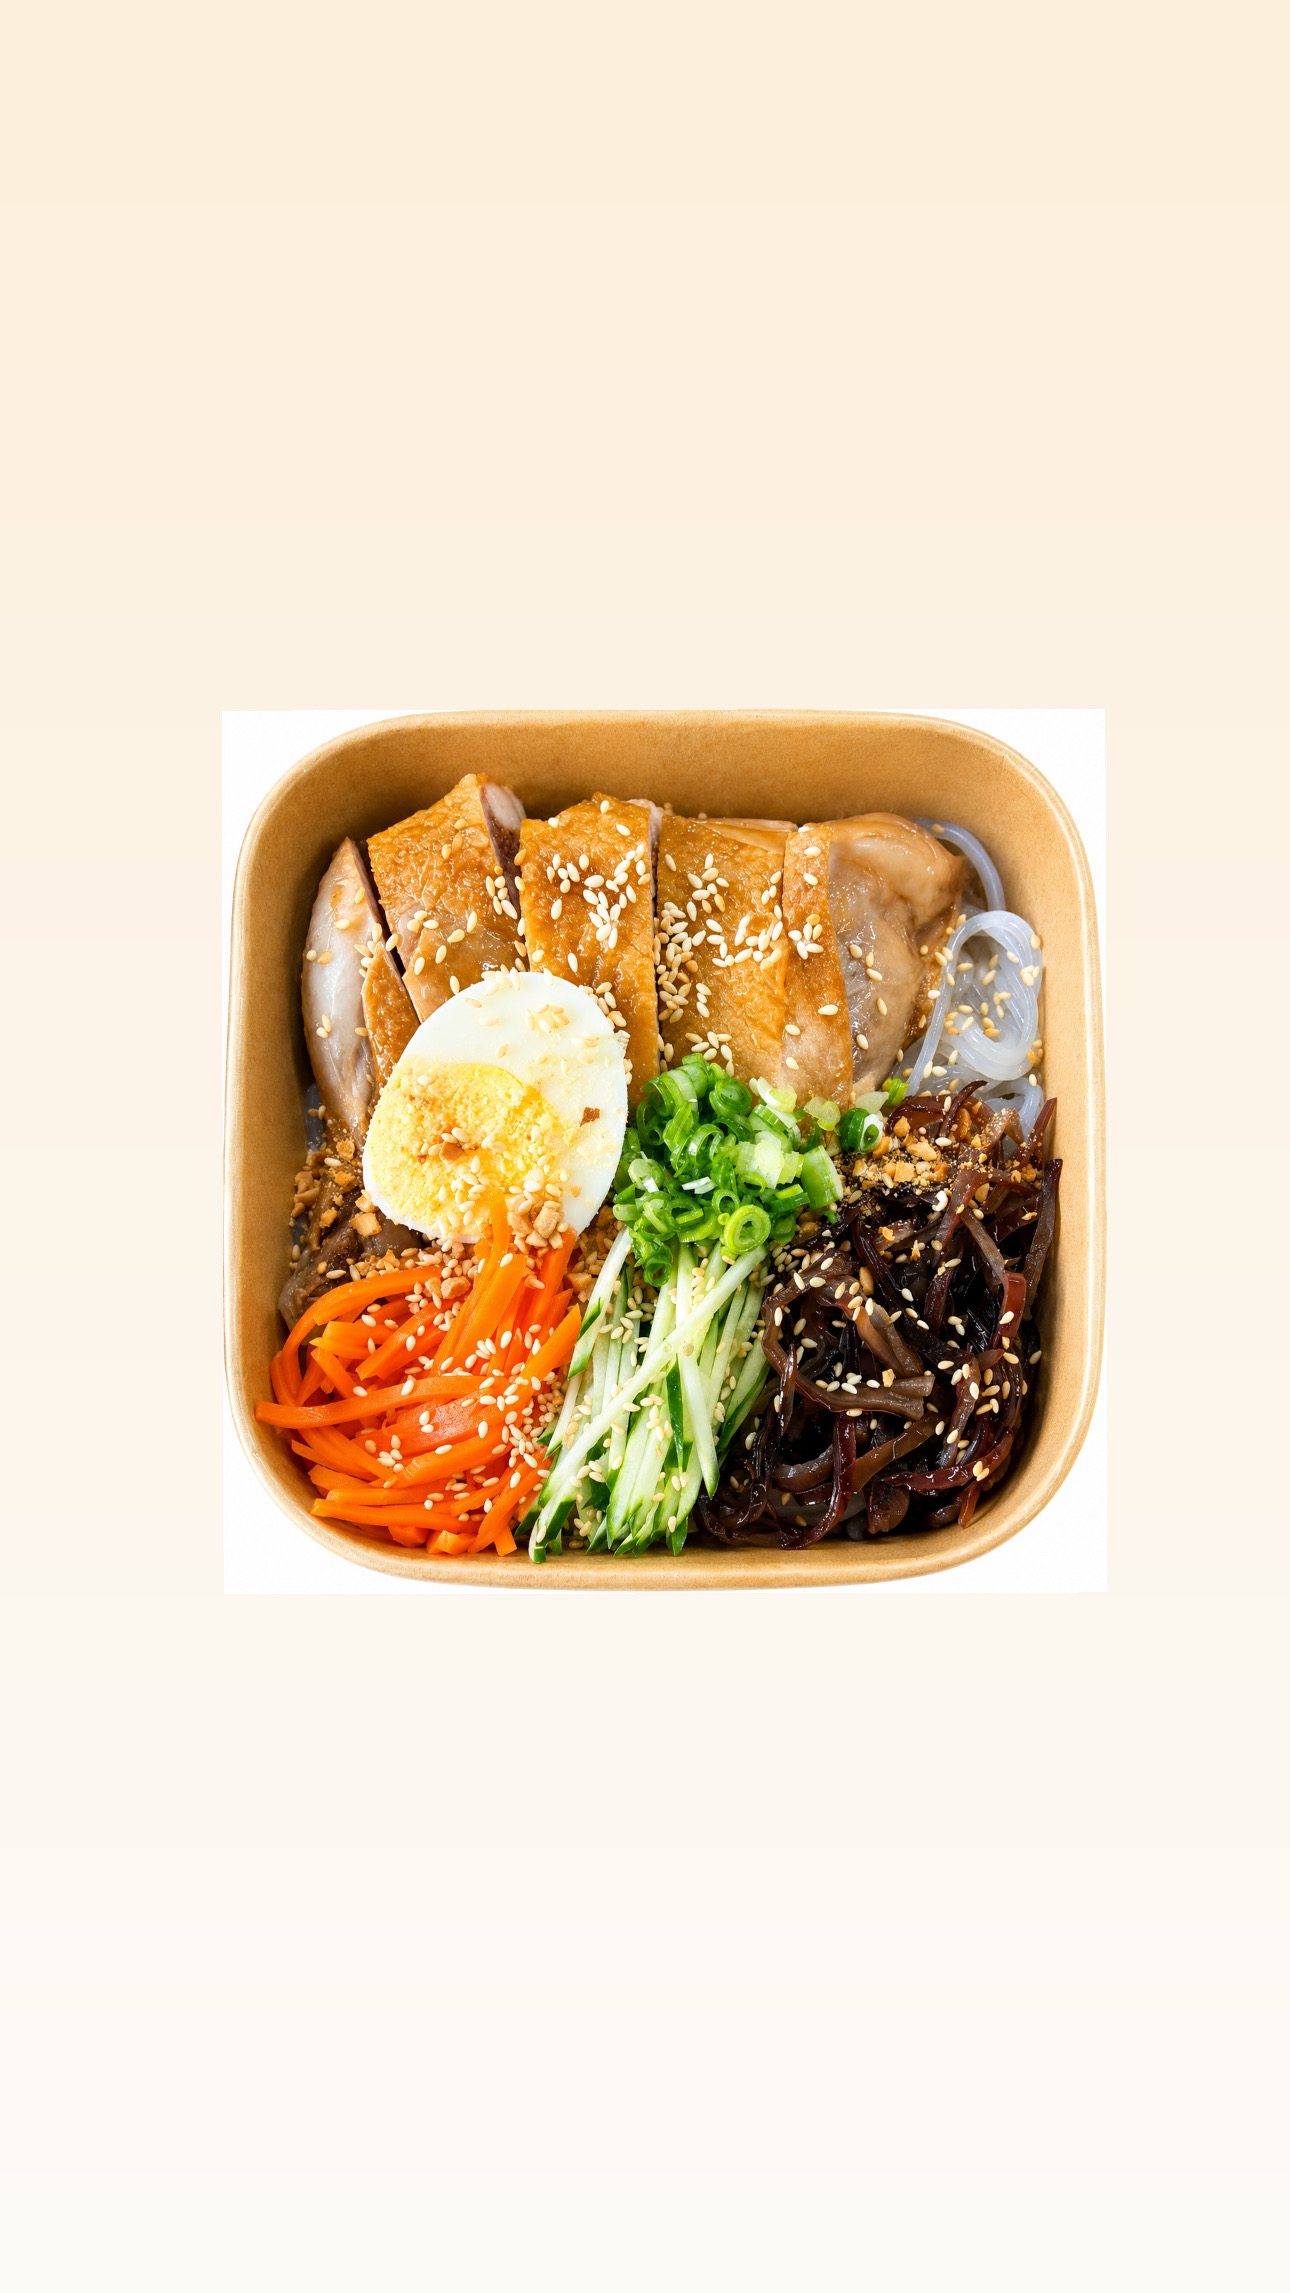
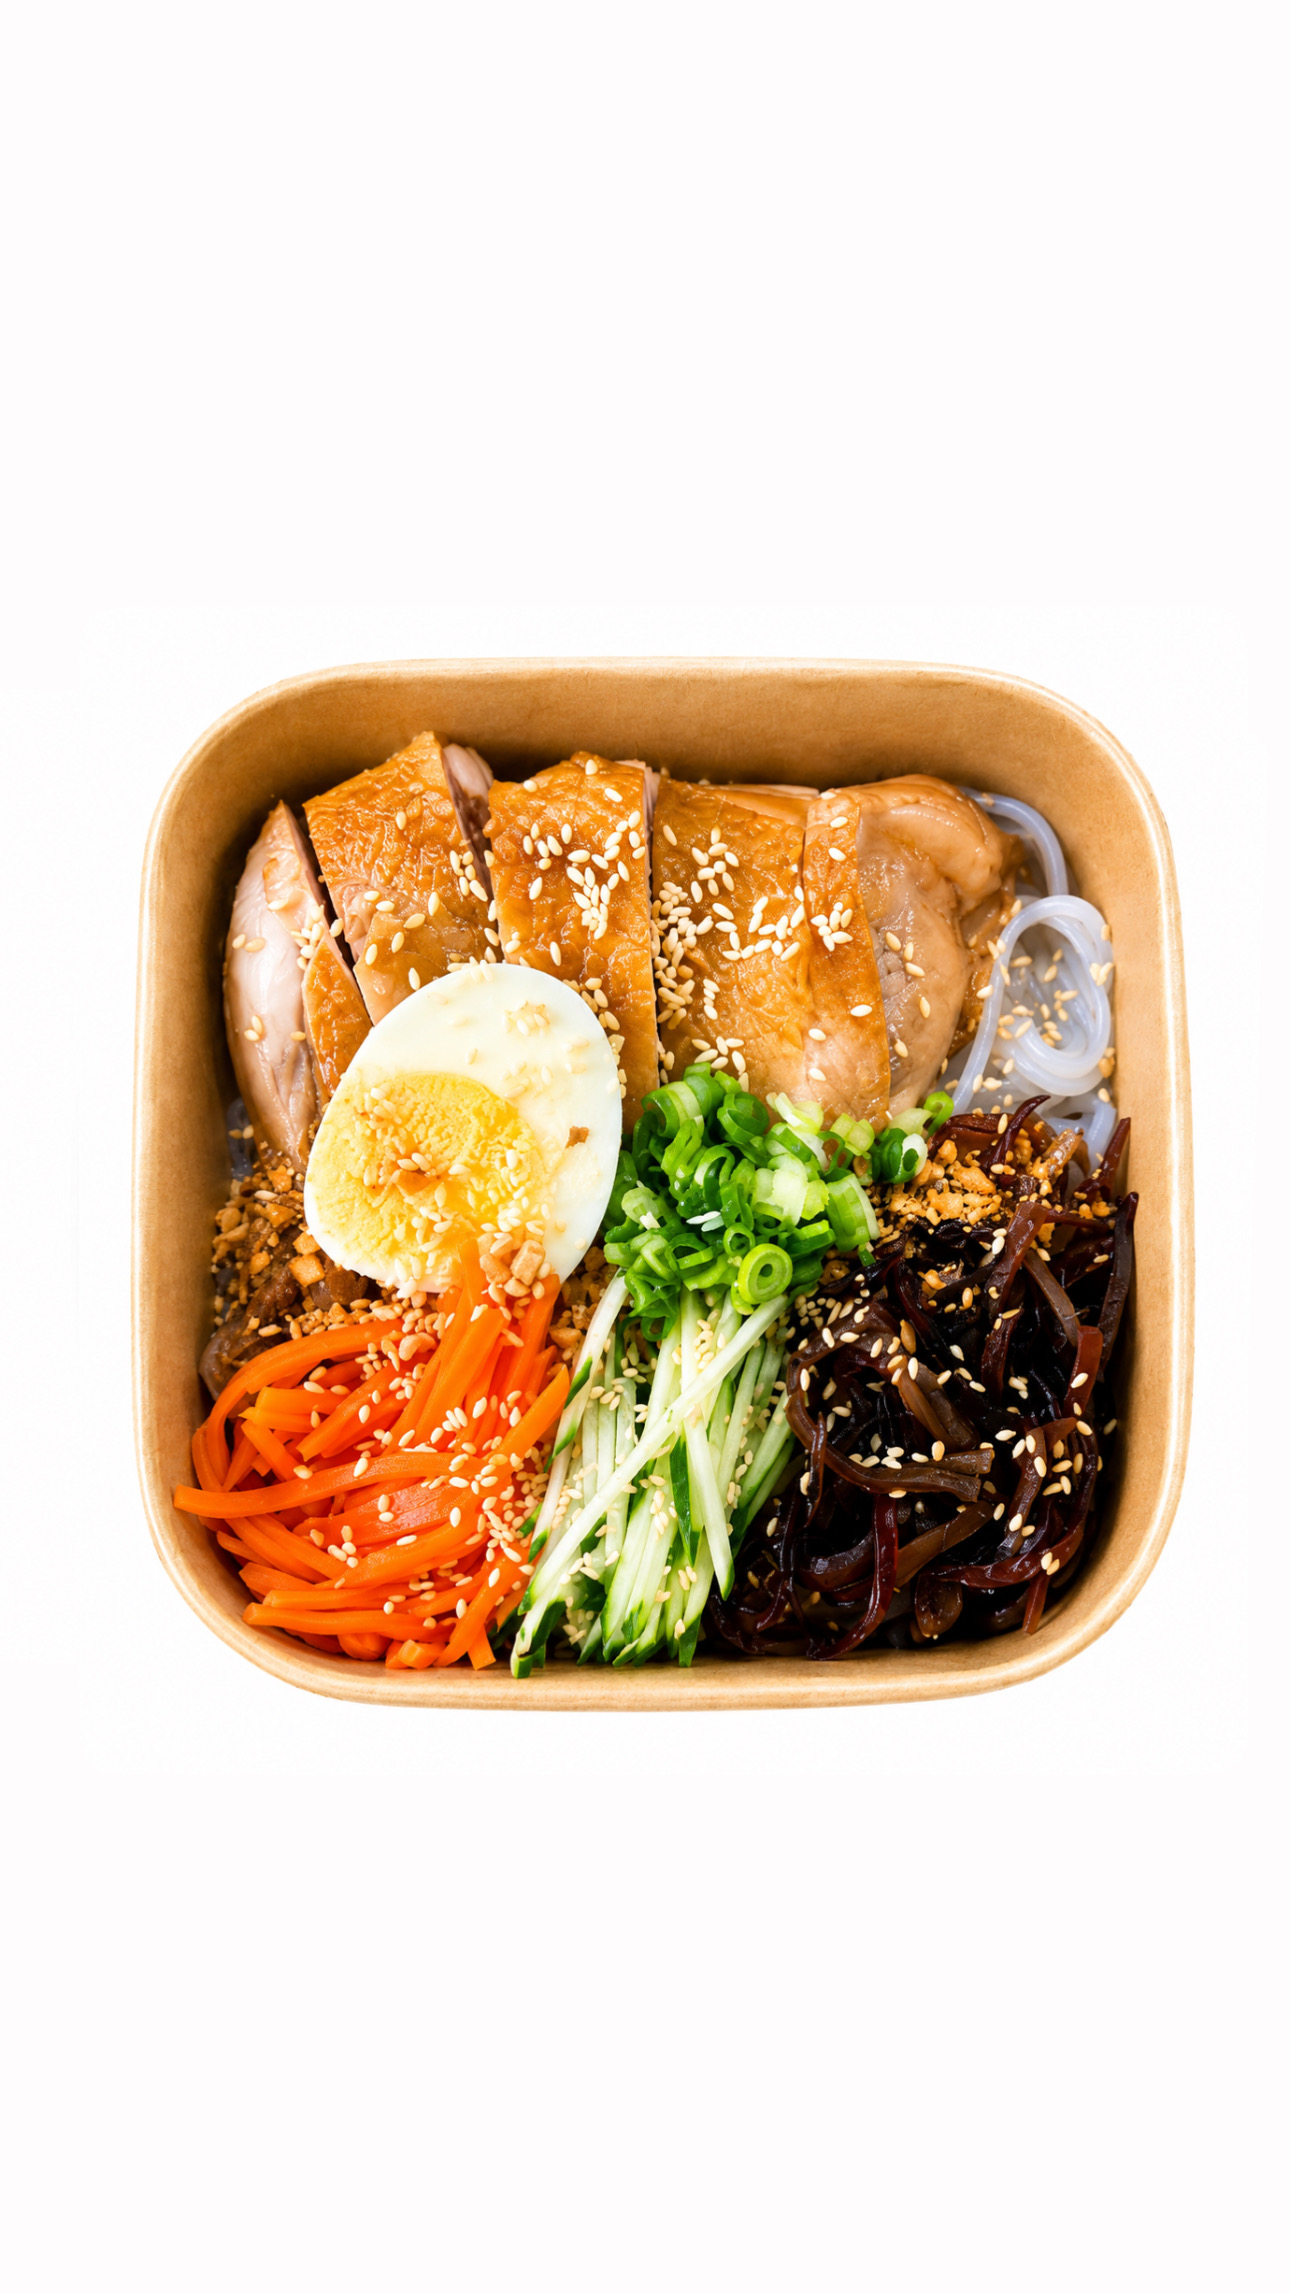
Add files via upload

diff --git a/config.js b/config.js
@@ -17,7 +17,7 @@ window.STORE_CONFIG = {
     {id:"oil-q",name:"油雞（四分之一）",desc:"",price:150,image:"oil_quarter.jpg",badge:"",soldOut:false},
     {id:"oil-h",name:"油雞（半雞）",desc:"",price:250,image:"oil_half.jpg",badge:"",soldOut:false},
     {id:"hainan",name:"海南雞腿飯",desc:"",price:110,image:"hainan_rice.jpg",options:["辣","不辣"],badge:"",soldOut:false},
-    {id:"oil-rice",name:"油雞腿飯",desc:"",price:110,image:"oil_rice.jpg",options:["辣","不辣"],badge:"",soldOut:false},
+    {id:"oil-rice",name:"油雞腿飯",desc:"",price:110,image:"oil_rice.jpg",badge:"",soldOut:false},
     {id:"boss",name:"霸氣雞腿涼粉",desc:"",price:120,image:"boss_noodles.jpg",options:["酸辣","胡麻","綜合"],badge:"新品",soldOut:false},
     {id:"seafood-l",name:"海鮮涼粉（大）",desc:"",price:110,image:"seafood_large.jpg",options:["酸辣","胡麻","綜合"],badge:"新品",soldOut:false},
     {id:"seafood-s",name:"海鮮涼粉（小）",desc:"",price:70,image:"seafood_small.jpg",options:["酸辣","胡麻","綜合"],badge:"新品",soldOut:false},
